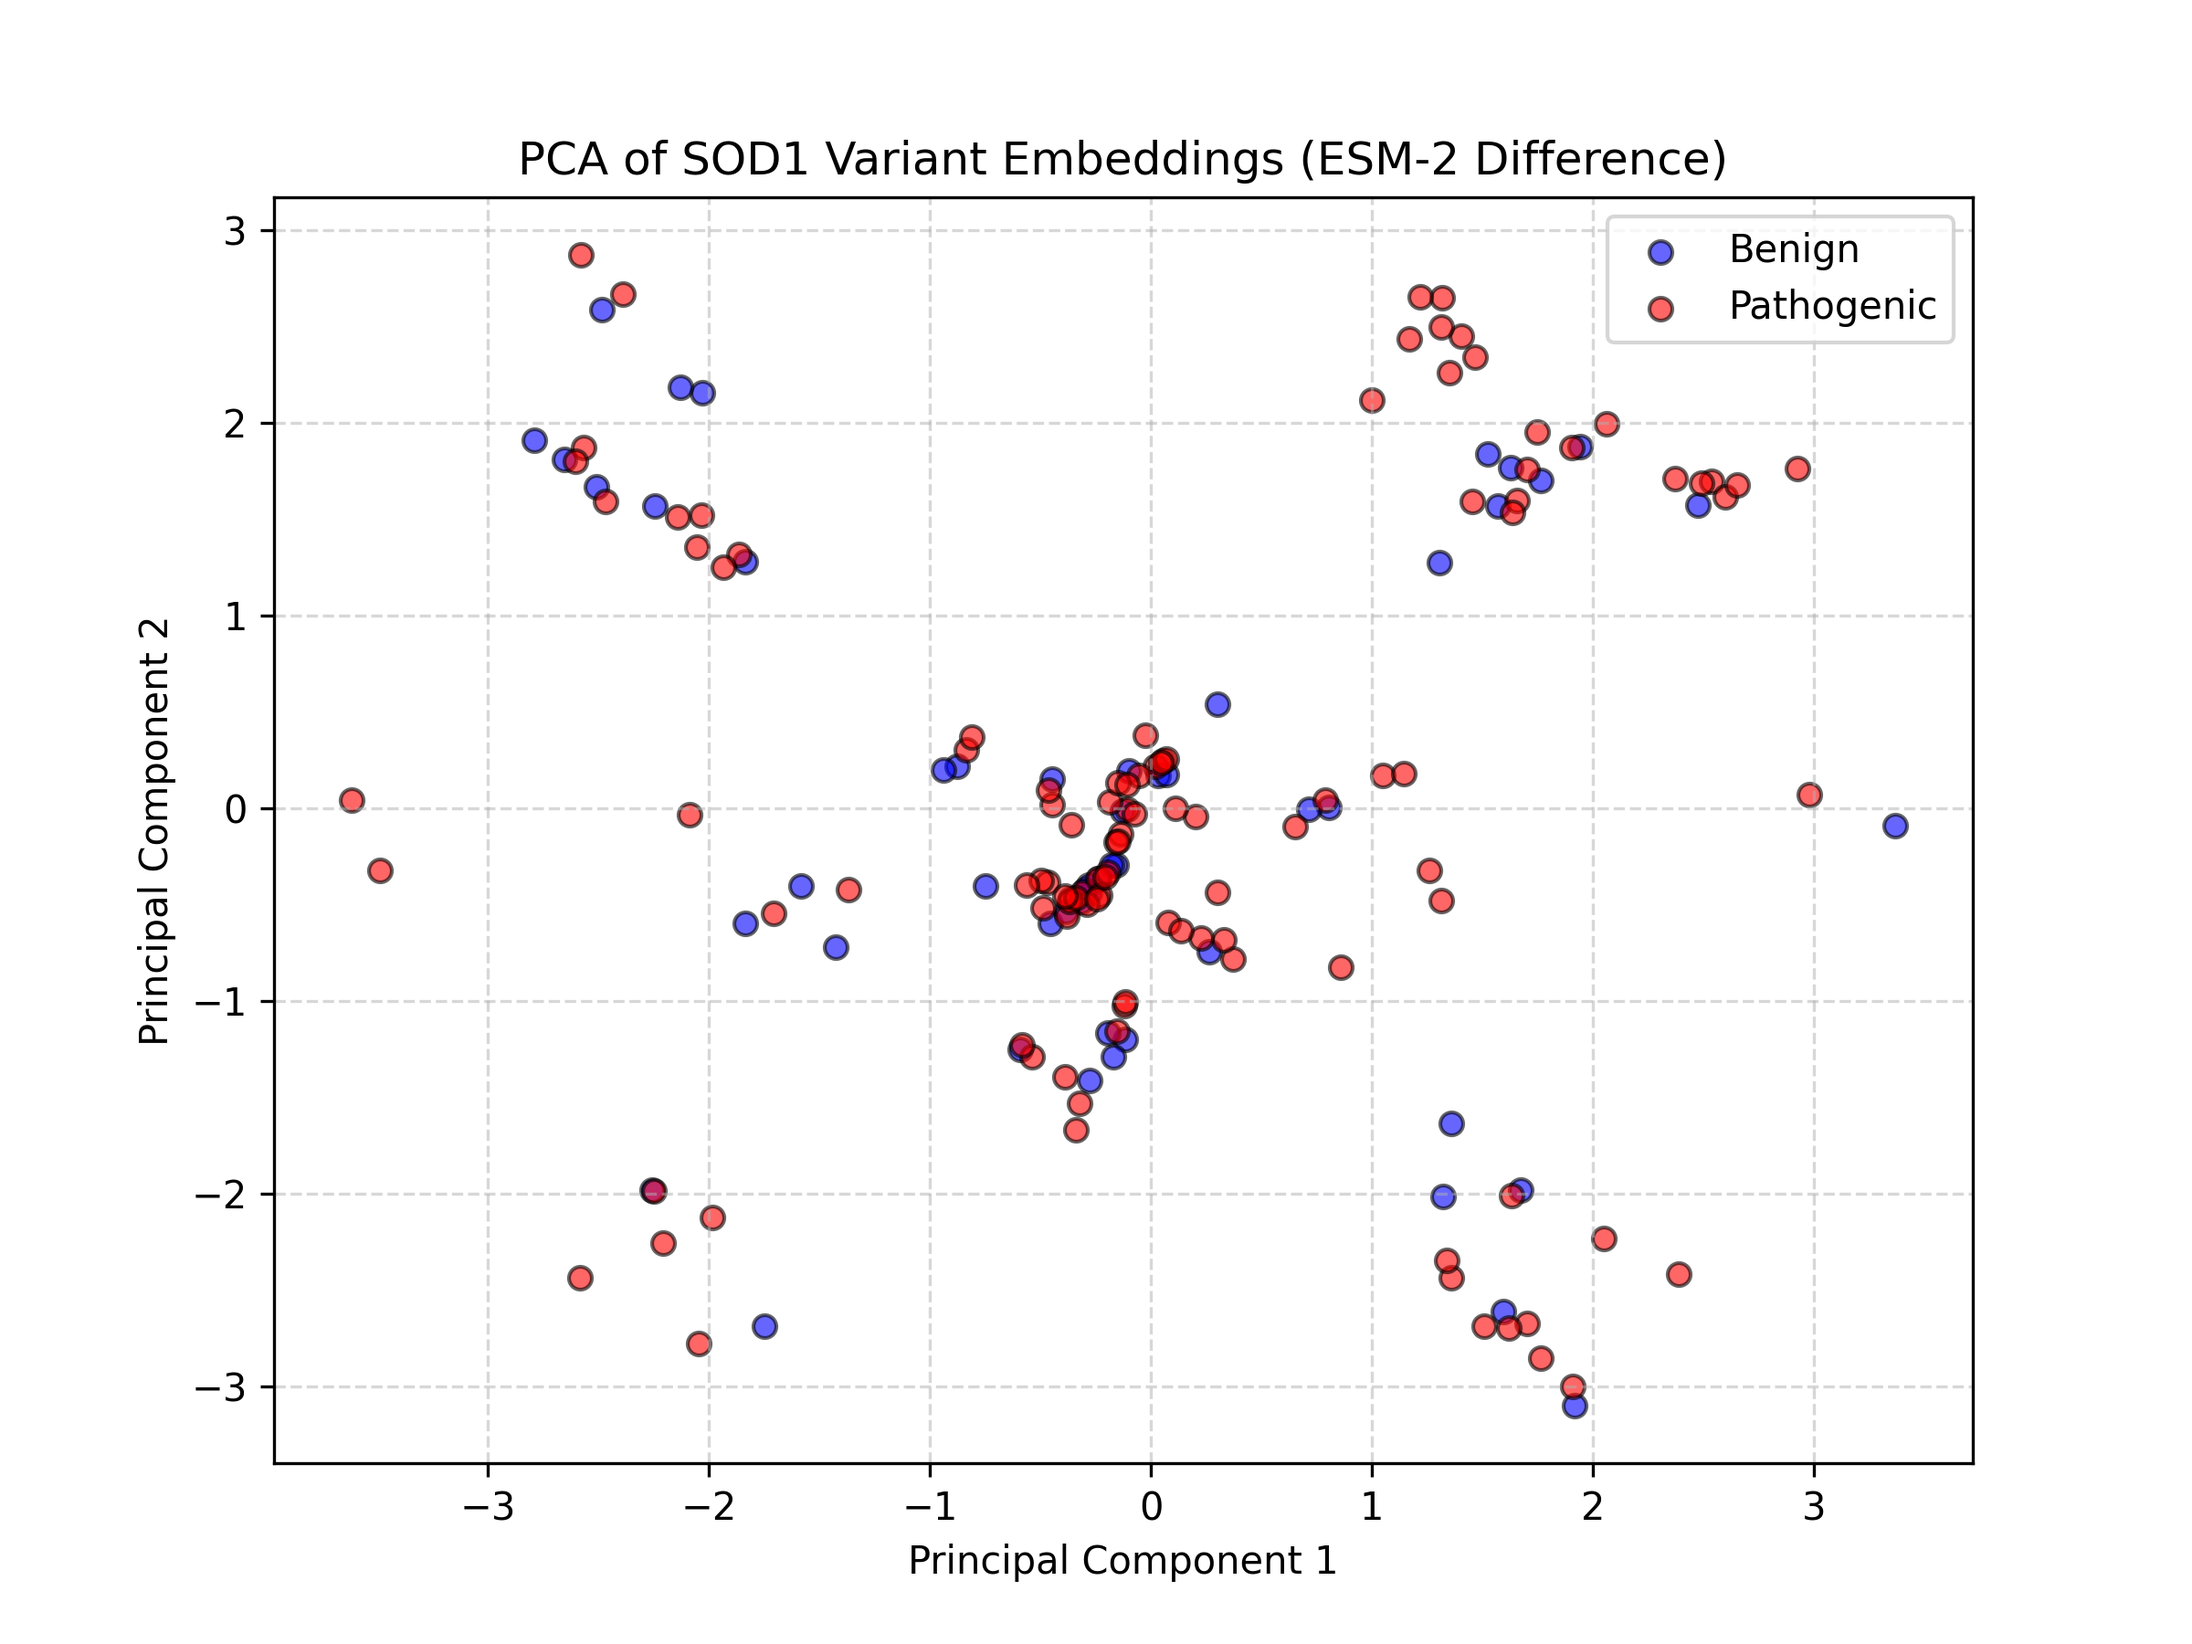
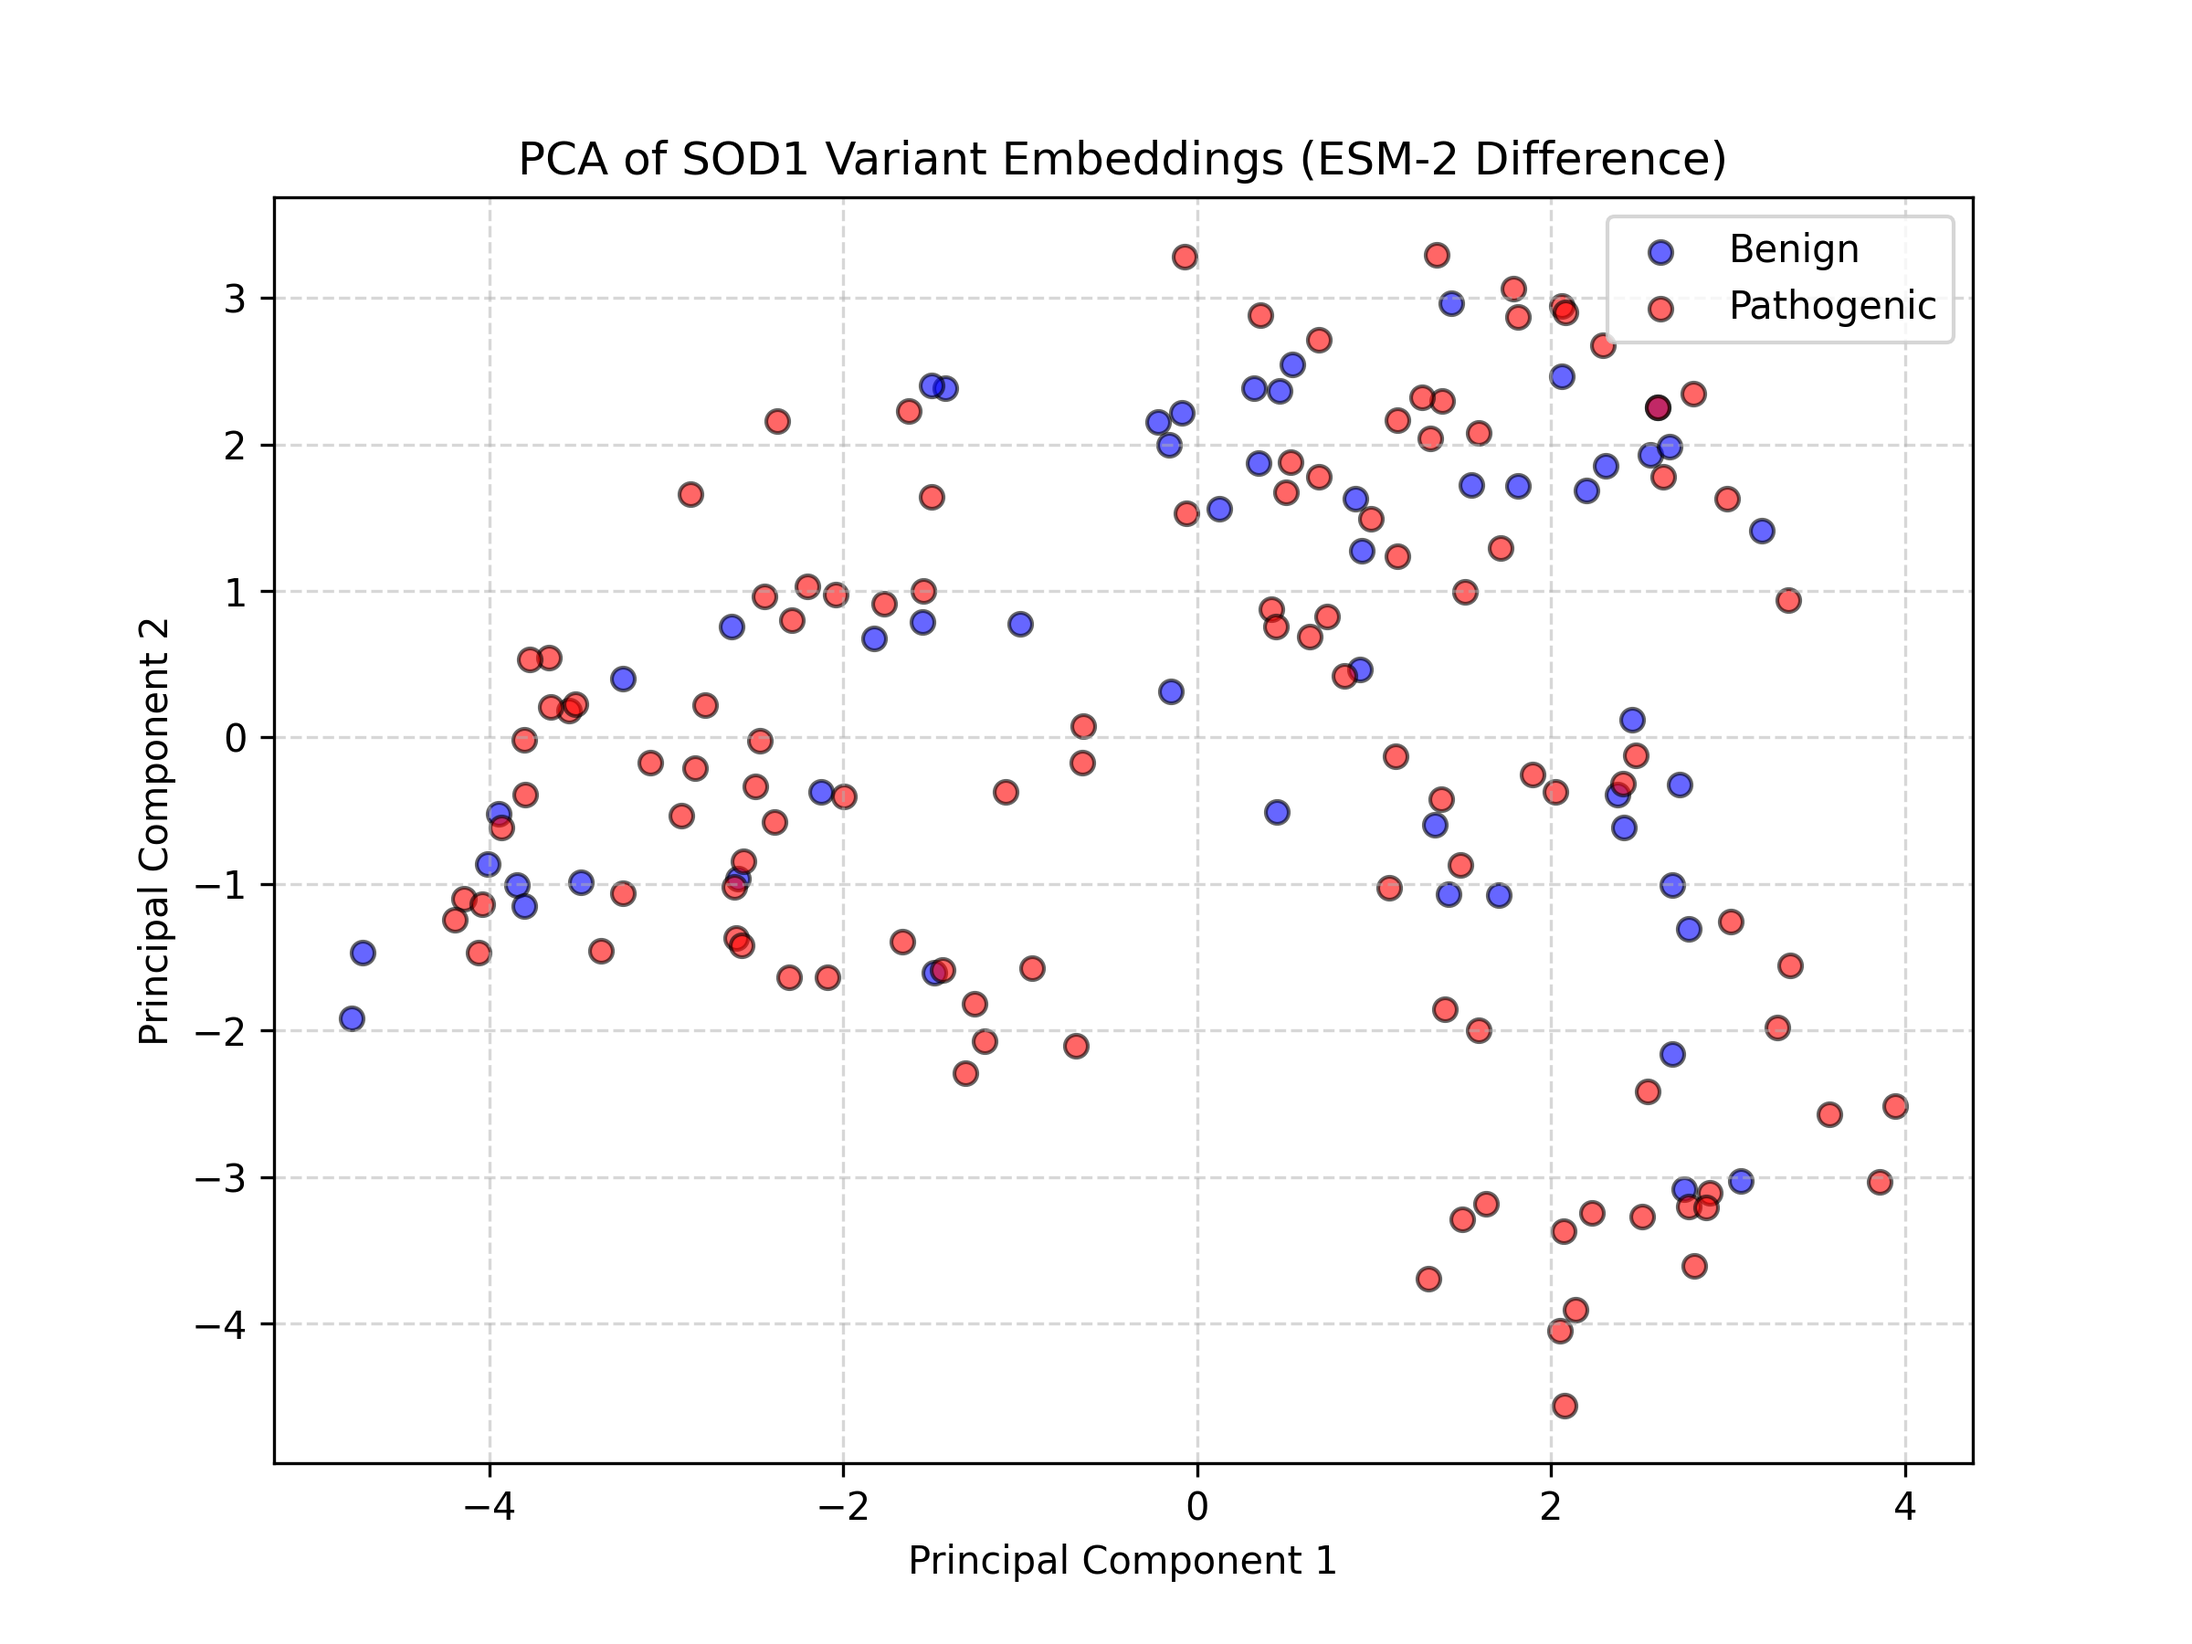
Fixed results.

diff --git a/sequence_track/build_embeddings.py b/sequence_track/build_embeddings.py
@@ -5,21 +5,59 @@ from transformers import AutoTokenizer, AutoModel
 from tqdm import tqdm
 import os
 
-# --- Configuration ---
-MODEL_NAME = "facebook/esm2_t6_8M_UR50D" 
+# --- CONFIGURATION ---
+# We upgrade to the 150M model for better biological signal
+MODEL_NAME = "facebook/esm2_t30_150M_UR50D" 
 INPUT_CSV = "data/variants.csv"
 OUTPUT_NPZ = "sequence_track/features_sequence.npz"
 
+# Canonical Human SOD1 Sequence (UniProt P00441)
 SOD1_WT_SEQ = (
     "MATKAVCVLKGDGPVQGIINFEQKESNGPVKVWGSIKGLTEGLHGFHVHEFGDNTAGCTS"
     "AGPHFNPLSRKHGGPKDEERHVGDLGNVTADKDGVADVSIEDSVISLSGDHCIIGRTLVV"
     "HEKADDLGKGGNEESTKTGNAGSRLACGVIGIAQ"
 )
 
-def get_residue_embedding(sequence, pos_0_indexed, tokenizer, model, device):
+def determine_offset(df, sequence):
     """
-    Extracts the embedding of the SPECIFIC residue at pos_0_indexed.
+    Bio-hack: Automatically checks if the CSV positions match 
+    the sequence by 0-indexing, 1-indexing, or -1 (mature protein).
     """
+    offsets = [0, -1, -2] # standard python, 1-based, or mature
+    best_offset = 0
+    best_match_count = -1
+
+    print("Checking alignment...")
+    for offset in offsets:
+        matches = 0
+        total = 0
+        for _, row in df.iterrows():
+            pos = row['pos']
+            wt_csv = row['wt']
+            
+            # tentative index
+            idx = pos + offset
+            
+            if 0 <= idx < len(sequence):
+                total += 1
+                if sequence[idx] == wt_csv:
+                    matches += 1
+        
+        accuracy = matches / total if total > 0 else 0
+        print(f"  Offset {offset}: {accuracy:.1%} match rate")
+        
+        if accuracy > best_match_count:
+            best_match_count = accuracy
+            best_offset = offset
+
+    if best_match_count < 0.9:
+        print("CRITICAL WARNING: Low alignment accuracy! Check your sequence vs CSV.")
+    else:
+        print(f"-> Using Offset {best_offset} (Accuracy: {best_match_count:.1%})")
+        
+    return best_offset
+
+def get_residue_embedding(sequence, seq_idx, tokenizer, model, device):
     inputs = tokenizer(sequence, return_tensors="pt", add_special_tokens=True)
     inputs = {k: v.to(device) for k, v in inputs.items()}
     
@@ -27,65 +65,74 @@ def get_residue_embedding(sequence, pos_0_indexed, tokenizer, model, device):
         outputs = model(**inputs)
         last_hidden_states = outputs.last_hidden_state
         
-    # ESM-2 adds a [CLS] token at the start.
-    # So, the 0-th residue of the protein is at index 1 of the tensor.
-    target_idx = pos_0_indexed + 1
+    # +1 for [CLS] token
+    target_idx = seq_idx + 1
     
-    # Check bounds (just in case)
     if target_idx >= last_hidden_states.shape[1]:
-        # Fallback to mean if index is weird (shouldn't happen for SOD1)
-        return last_hidden_states[0, 1:-1, :].mean(dim=0).cpu().numpy()
-
-    # Extract specific vector (Shape: 320,)
-    embedding = last_hidden_states[0, target_idx, :]
-    
-    return embedding.cpu().numpy()
+        return None
+        
+    return last_hidden_states[0, target_idx, :].cpu().numpy()
 
 def main():
     device = "cuda" if torch.cuda.is_available() else "cpu"
-    print(f"Loading model on {device}...")
+    print(f"Loading {MODEL_NAME} on {device}...")
     
     tokenizer = AutoTokenizer.from_pretrained(MODEL_NAME)
     model = AutoModel.from_pretrained(MODEL_NAME).to(device)
     model.eval()
 
+    if not os.path.exists(INPUT_CSV):
+        print(f"Error: {INPUT_CSV} not found.")
+        return
+
     df = pd.read_csv(INPUT_CSV)
     
+    # 1. Auto-Detect Alignment
+    offset = determine_offset(df, SOD1_WT_SEQ)
+
     X_list = []
     y_list = []
     ids_list = []
 
-    print("Generating residue-specific embeddings...")
+    print("Generating embeddings...")
     for _, row in tqdm(df.iterrows(), total=len(df)):
         variant_id = row['variant_id']
-        pos = row['pos']       # 1-based
+        pos = row['pos']
         aa_mut = row['mut']
         label = row['label']
         
-        seq_idx = pos - 1      # 0-based index
+        # Apply detected offset
+        seq_idx = pos + offset
         
-        # 1. Embed WT at this position
+        # Bounds check
+        if seq_idx < 0 or seq_idx >= len(SOD1_WT_SEQ):
+            continue
+
+        # 2. Embed WT
         emb_wt = get_residue_embedding(SOD1_WT_SEQ, seq_idx, tokenizer, model, device)
         
-        # 2. Create Mutant Sequence
+        # 3. Embed Mut
         seq_list = list(SOD1_WT_SEQ)
-        # Safety check
-        if seq_idx < len(seq_list):
-            seq_list[seq_idx] = aa_mut
-            mutant_seq = "".join(seq_list)
-            
-            # 3. Embed Mutant at this position
-            emb_mut = get_residue_embedding(mutant_seq, seq_idx, tokenizer, model, device)
-            
-            # 4. Feature: Difference
-            diff_vector = emb_mut - emb_wt
-            
-            X_list.append(diff_vector)
-            y_list.append(label)
-            ids_list.append(variant_id)
+        seq_list[seq_idx] = aa_mut
+        mutant_seq = "".join(seq_list)
+        emb_mut = get_residue_embedding(mutant_seq, seq_idx, tokenizer, model, device)
+        
+        if emb_wt is None or emb_mut is None:
+            continue
 
+        # 4. Feature Engineering: Concatenate [WT, Diff]
+        # This gives the model "Starting Point" + "Direction of Change"
+        diff = emb_mut - emb_wt
+        final_feature = np.concatenate([emb_wt, diff]) 
+        
+        X_list.append(final_feature)
+        y_list.append(label)
+        ids_list.append(variant_id)
+
+    # Save
+    os.makedirs(os.path.dirname(OUTPUT_NPZ), exist_ok=True)
     np.savez(OUTPUT_NPZ, X=np.array(X_list), y=np.array(y_list), ids=np.array(ids_list))
-    print(f"Done. Features shape: {np.array(X_list).shape}")
+    print(f"Saved {len(X_list)} variants. Feature shape: {np.array(X_list).shape}")
 
 if __name__ == "__main__":
     main()

diff --git a/sequence_track/generate_results_md.py b/sequence_track/generate_results_md.py
@@ -1,31 +1,27 @@
 import json
 import numpy as np
+import os
 
 # Paths
-INPUT_JSON = "sequence_track/results.json"  # Output from evaluate.py
+INPUT_JSON = "sequence_track/results.json"
 OUTPUT_MD = "sequence_track/RESULTS.md"
 
 def main():
-    # 1. Load the JSON results
-    try:
-        with open(INPUT_JSON, 'r') as f:
-            results = json.load(f)
-    except FileNotFoundError:
-        print(f"Error: {INPUT_JSON} not found. Did you run evaluate.py?")
+    if not os.path.exists(INPUT_JSON):
+        print(f"Error: {INPUT_JSON} not found.")
         return
 
-    # 2. Extract Metrics
-    # Note: Adjust keys based on exactly what evaluate.py outputs.
-    # Assuming standard sklearn keys or the structure likely used by your partner.
+    with open(INPUT_JSON, 'r') as f:
+        results = json.load(f)
+
+    # --- FIX 1: Match the keys exactly to your JSON output ---
+    auc_mean = results.get("roc_auc_mean", 0.0)
+    auc_std = results.get("roc_auc_std", 0.0)
     
-    auc_mean = results.get("test_roc_auc_mean", 0.0)
-    auc_std = results.get("test_roc_auc_std", 0.0)
+    acc_mean = results.get("accuracy_mean", 0.0)
+    acc_std = results.get("accuracy_std", 0.0)
     
-    acc_mean = results.get("test_accuracy_mean", 0.0)
-    acc_std = results.get("test_accuracy_std", 0.0)
-    
-    # Calculate dataset stats (if available in JSON, otherwise hardcoded/estimated)
-    # If the JSON contains confusion matrix, we can derive counts
+    # Get Confusion Matrix details
     cm = results.get("confusion_matrix_sum", [[0,0],[0,0]])
     tn, fp = cm[0]
     fn, tp = cm[1]
@@ -34,17 +30,17 @@ def main():
     n_pos = fn + tp
     n_neg = tn + fp
 
-    # 3. Format the Markdown Content
+    # --- FIX 2: Update description to match the 150M model ---
     md_content = f"""## Sequence track baseline (ESM-2 Embeddings, Logistic Regression)
 
 Dataset:
 - n={n_total} variants ({n_pos} label=1, {n_neg} label=0)
 - Task: Pathogenic (1) vs Benign (0)
-- Model: Logistic Regression on ESM-2 (t6_8M) embedding differences
+- Model: Logistic Regression on ESM-2 (t30_150M) embedding features
 
 Features:
-- Vector difference (Mutant - Wildtype)
-- Embedding dimension: 320 (from esm2_t6_8M_UR50D)
+- Concatenated Vector: [WT_Embedding, Difference]
+- Embedding dimension: 1280 (640 WT + 640 Diff)
 
 Cross-validation results:
 - ROC-AUC: {auc_mean:.3f} ± {auc_std:.3f}
@@ -55,7 +51,6 @@ Confusion matrix (sum over folds):
 - FN={fn}, TP={tp}
 """
 
-    # 4. Save to File
     with open(OUTPUT_MD, 'w') as f:
         f.write(md_content)
     

diff --git a/sequence_track/RESULTS.md b/sequence_track/RESULTS.md
@@ -3,16 +3,16 @@
 Dataset:
 - n=162 variants (110 label=1, 52 label=0)
 - Task: Pathogenic (1) vs Benign (0)
-- Model: Logistic Regression on ESM-2 (t6_8M) embedding differences
+- Model: Logistic Regression on ESM-2 (t30_150M) embedding features
 
 Features:
-- Vector difference (Mutant - Wildtype)
-- Embedding dimension: 320 (from esm2_t6_8M_UR50D)
+- Concatenated Vector: [WT_Embedding, Difference]
+- Embedding dimension: 1280 (640 WT + 640 Diff)
 
 Cross-validation results:
-- ROC-AUC: 0.000 ± 0.000
-- Accuracy: 0.000 ± 0.000
+- ROC-AUC: 0.649 ± 0.142
+- Accuracy: 0.618 ± 0.104
 
 Confusion matrix (sum over folds):
-- TN=14, FP=38
-- FN=48, TP=62
+- TN=22, FP=30
+- FN=32, TP=78
